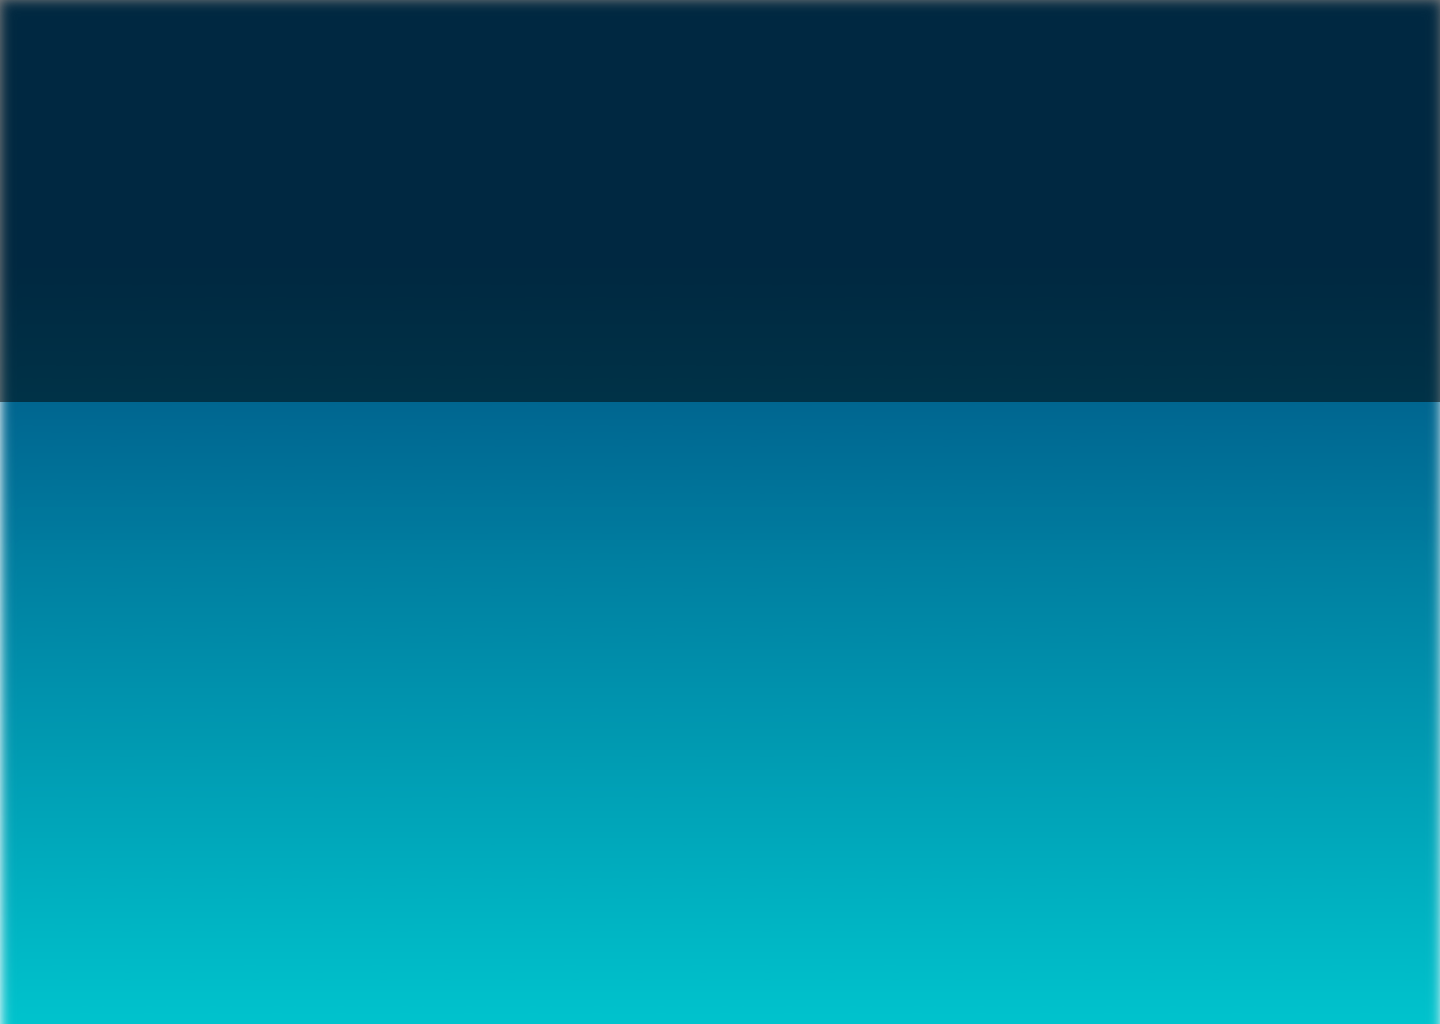
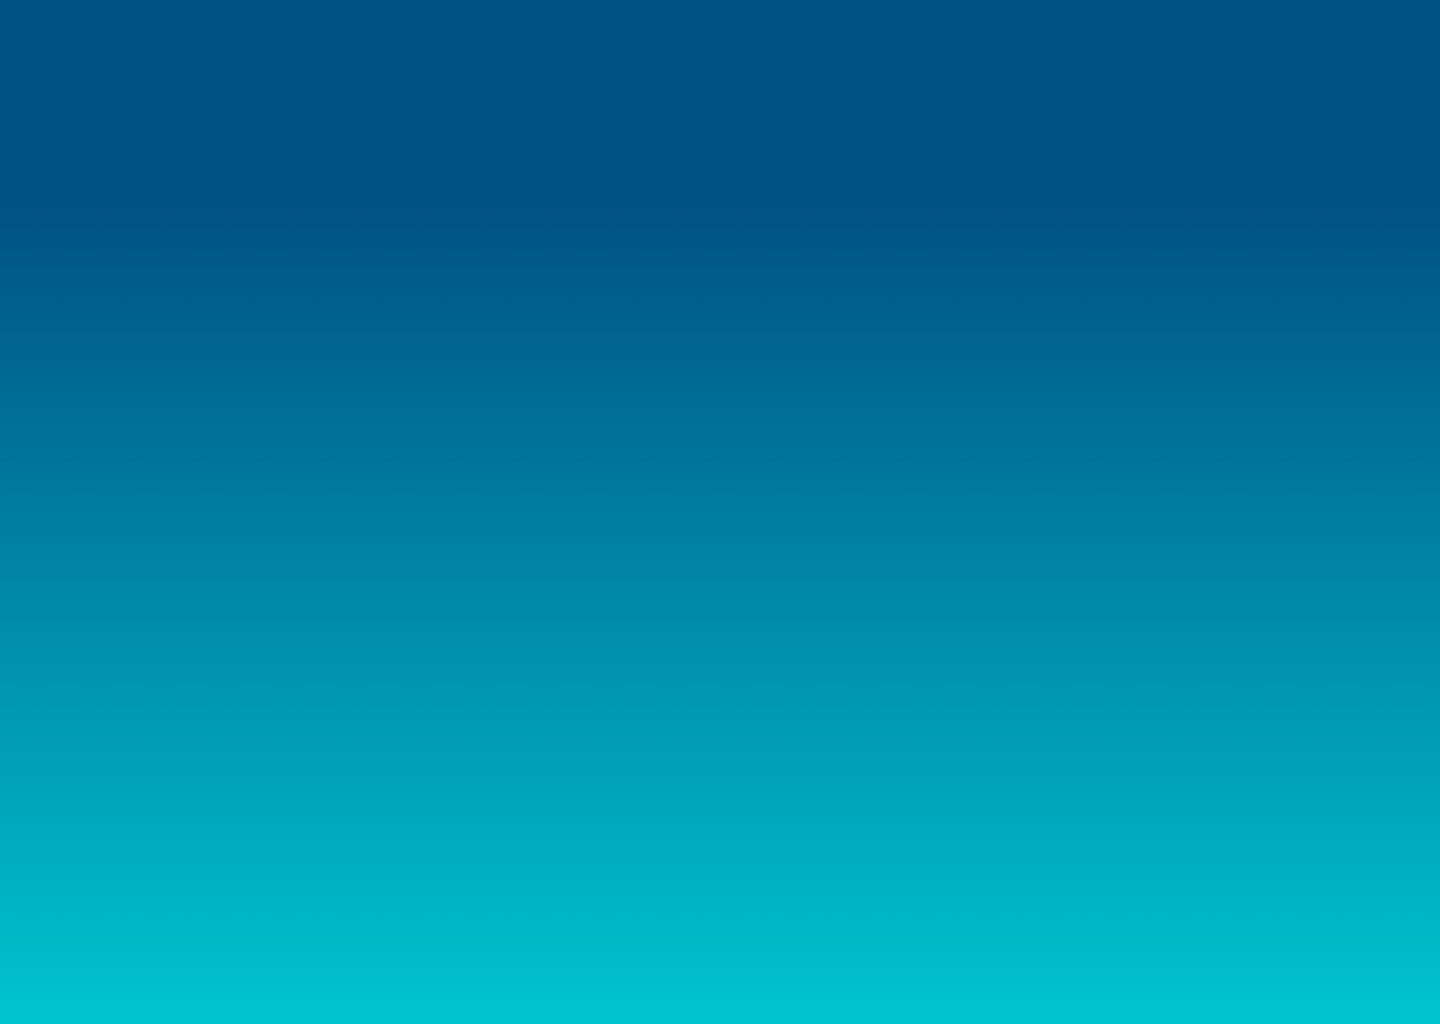
finish application page

diff --git a/Server/jbox/static/css/application.css b/Server/jbox/static/css/application.css
@@ -1,14 +1,17 @@
 body {
     background: url("../images/application-background.png") no-repeat;
     -webkit-background-size: 100%;
-    background-size: 100%;
+    /*background-size: 100%;*/
+    background-color: #00C4CC;
 }
 
 .content {
     display: flex;
     flex-flow: column nowrap;
-    width: 100%;
-    height: 100%;
+    /*width: 100%;*/
+    /*height: 100%;*/
+    margin-left: 0px;
+    margin-right: 0px;
     padding-bottom: 349px;
 }
 
@@ -27,33 +30,42 @@ body {
 }
 
 #layer1 {
-    margin-top: 230px;
+    margin-top: 0px;
+    /*margin: 0px;*/
+    margin-left: 0px;
+    margin-right: 0px;
+    height: 402px;
+    background-color: #002840;
 }
 
 #cloud1x {
     align-self: flex-end;
     margin-top: 42px;
-    margin-right: 51px
+    margin-right: 51px;
+    /*margin-bottom: -132px;*/
 }
 
 #cloud-big {
-    margin-top: 74px;
+    /*margin-left: 100px;*/
+    margin-bottom: -232px;
+    margin-right: 100px;
+
 }
 
 #iceberg {
-    margin-bottom: 112px;
+    margin-bottom: -132px;
 }
 
 #cloud1_5x {
-    align-self: flex-start;
-    margin-top: 26px
+    margin-bottom: -132px;
 }
 
 #download-title {
     font-size: 48px;
     color: #FFFFFF;
     align-self: center;
-    margin-left: 60px
+    margin-left: 60px;
+    margin-top: 96px;
 }
 
 .icon-background {

diff --git a/Server/jbox/templates/application.html b/Server/jbox/templates/application.html
@@ -10,7 +10,7 @@
 
 
 
-{% block page_content %}
+{% block content %}
     <div class="content">
         <div class="row-layer" id="layer1">
             <div class="column-layer">
